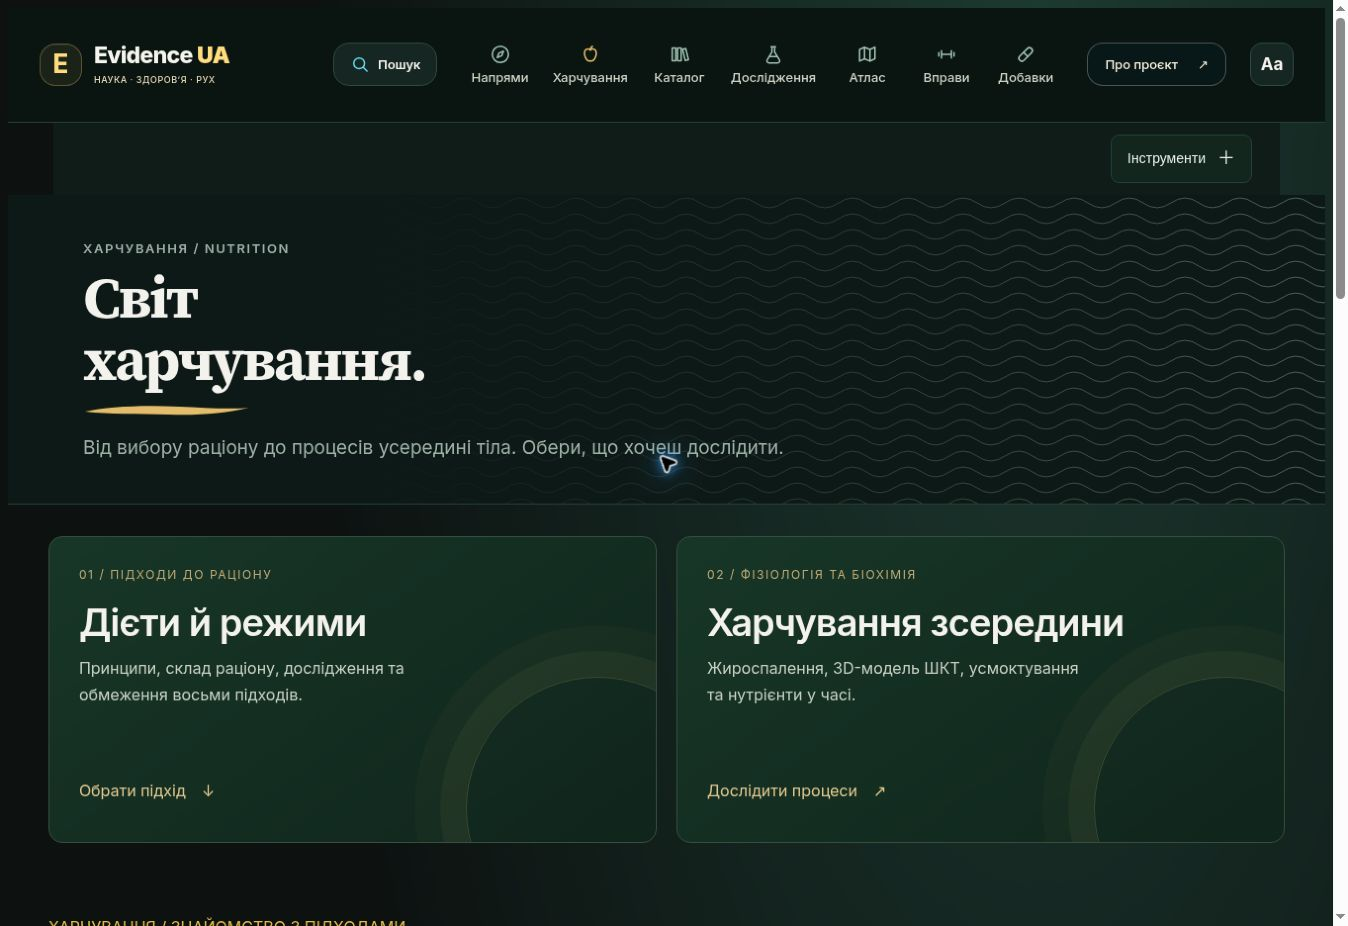
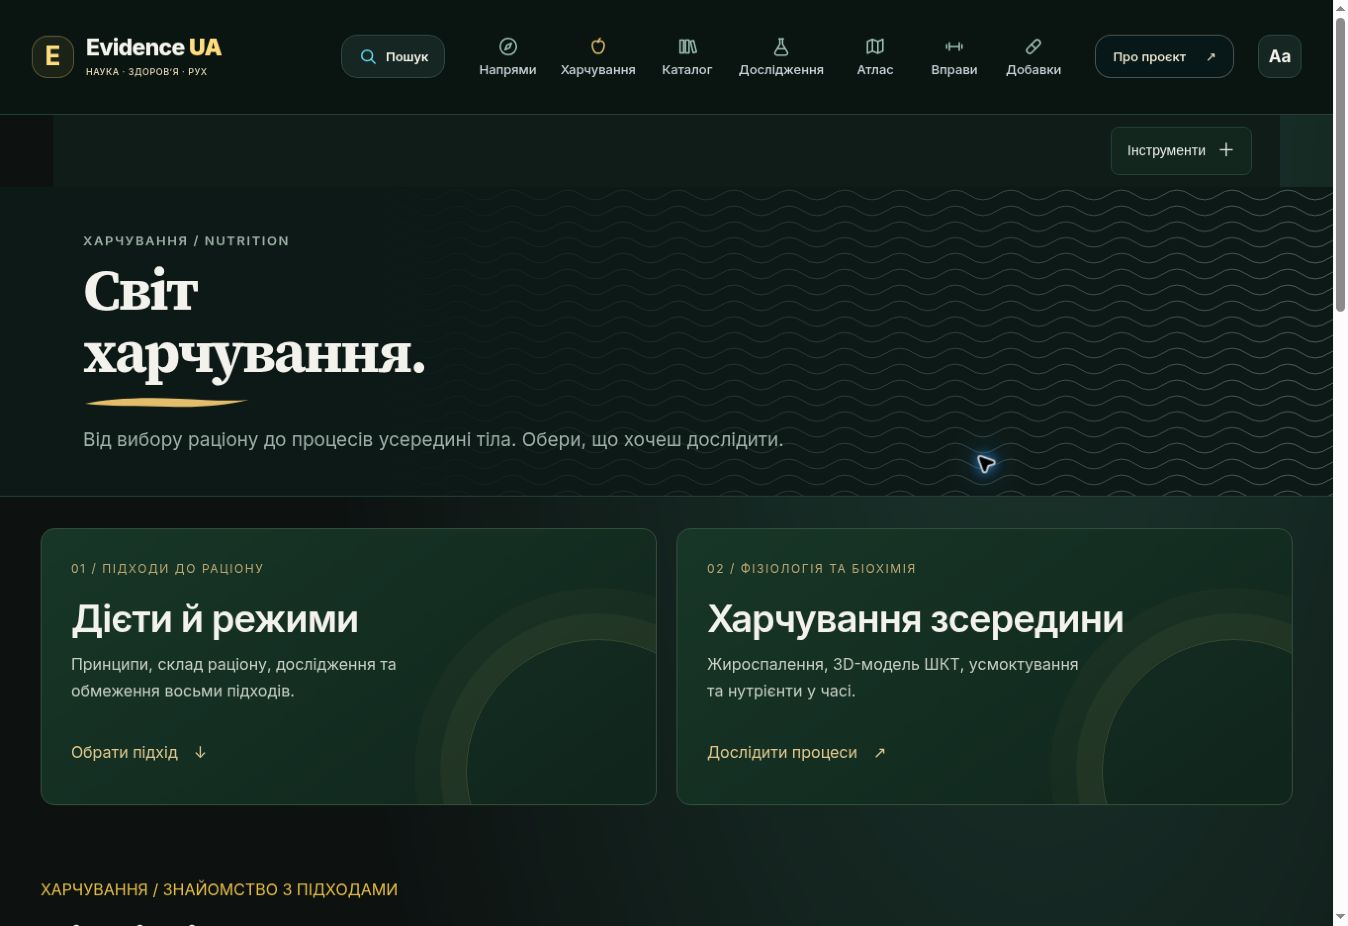
Restore Nutrition base layout and update browser checks for the split

diff --git a/dist/nutrition-navigation.css b/dist/nutrition-navigation.css
@@ -1,4 +1,7 @@
 /* Nutrition entry and contextual utilities; all existing lab artwork stays in its own stylesheet. */
+/* The hub no longer loads the timeline stylesheet, which used to supply this base reset. */
+body[data-nutrition-tools]{margin:0;line-height:1.6}
+body[data-nutrition-tools],body[data-nutrition-tools] *{box-sizing:border-box}
 body[data-nutrition-tools] .eua-platform-nav{display:flex;justify-content:flex-end;position:relative;z-index:12;max-width:1240px;margin:0 auto;padding:12px 28px;border:0;background:transparent}
 body[data-nutrition-tools] .eua-nutrition-menu{position:relative;margin:0}
 /* The existing study UI hides generic navigation disclosures; this scoped one replaces the visible tools row. */
